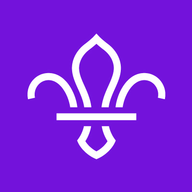
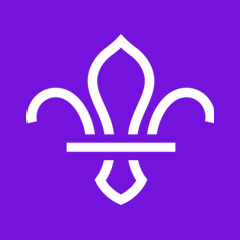
[skip netlify] Updating styling to match branding

Changed region(s): [[0.0938, 0.125, 0.9062, 0.875], [0.4375, 0.4375, 0.4688, 0.4688]]

diff --git a/src/html/index.html b/src/html/index.html
@@ -105,7 +105,7 @@
                     <span class="home-caption">View caches</span>
                   </a>
                 </div>
-                <div class="col-sm-4">
+                <div class="col-md-4">
                   <a
                     href="foundCaches"
                     class="btn btn-sq-lg btn-primary"
@@ -1354,19 +1354,39 @@
         </div>
       </main>
       <!-- Page footer -->
-      <footer class="container pt-5 my-5 text-muted border-top">
-        <p>
-          @@appName v@@version | All content &copy;
-          <a href="https://www.withamscouts.org.uk">Witham Scout Groups</a> and
-          <a href="https://www.scouts.org.uk/">The Scout Association</a>. All
-          Rights Reserved.
-        </p>
-        <p>
-          <a href="terms" data-navigo>Terms and Conditions</a> |
-          <a href="privacy" data-navigo>Privacy Policy</a> |
-          <a href="disclaimer" data-navigo>Disclaimer</a> |
-          <a href="openSourceLicenses" data-navigo>Open Source Licenses</a>
-        </p>
+      <footer class="container my-5 text-muted border-top">
+        <div class="row pt-3">
+          <div class="col-md-10">
+            <p>
+              @@appName v@@version | All content &copy;
+              <a href="https://www.scouts.org.uk/">The Scout Association</a>.
+              All Rights Reserved.
+            </p>
+            <p>
+              <a href="terms" data-navigo>Terms and Conditions</a> |
+              <a href="privacy" data-navigo>Privacy Policy</a> |
+              <a href="disclaimer" data-navigo>Disclaimer</a> |
+              <a href="openSourceLicenses" data-navigo>Open Source Licenses</a>
+              |
+              <a href="https://www.scouts.org.uk/about-us/strategy/"
+                >#SkillsForLife</a
+              >
+            </p>
+          </div>
+          <div class="col-md-2 text-center">
+            <a href="https://www.withamscouts.org.uk">
+              <picture>
+                <source srcset="./img/group.webp" type="image/webp" />
+                <source srcset="./img/group.png" type="image/png" />
+                <img
+                  src="./img/group.png"
+                  class="footer-img"
+                  alt="Witham Scouts logo"
+                />
+              </picture>
+            </a>
+          </div>
+        </div>
       </footer>
     </div>
     <script src="./js/main-@@version.min.js"></script>

diff --git a/src/css/style.scss b/src/css/style.scss
@@ -135,3 +135,7 @@ input[type=number]::-webkit-outer-spin-button {
 .stat-card {
 	height: 85%;
 }
+
+.footer-img {
+	max-height: 100px;
+}
